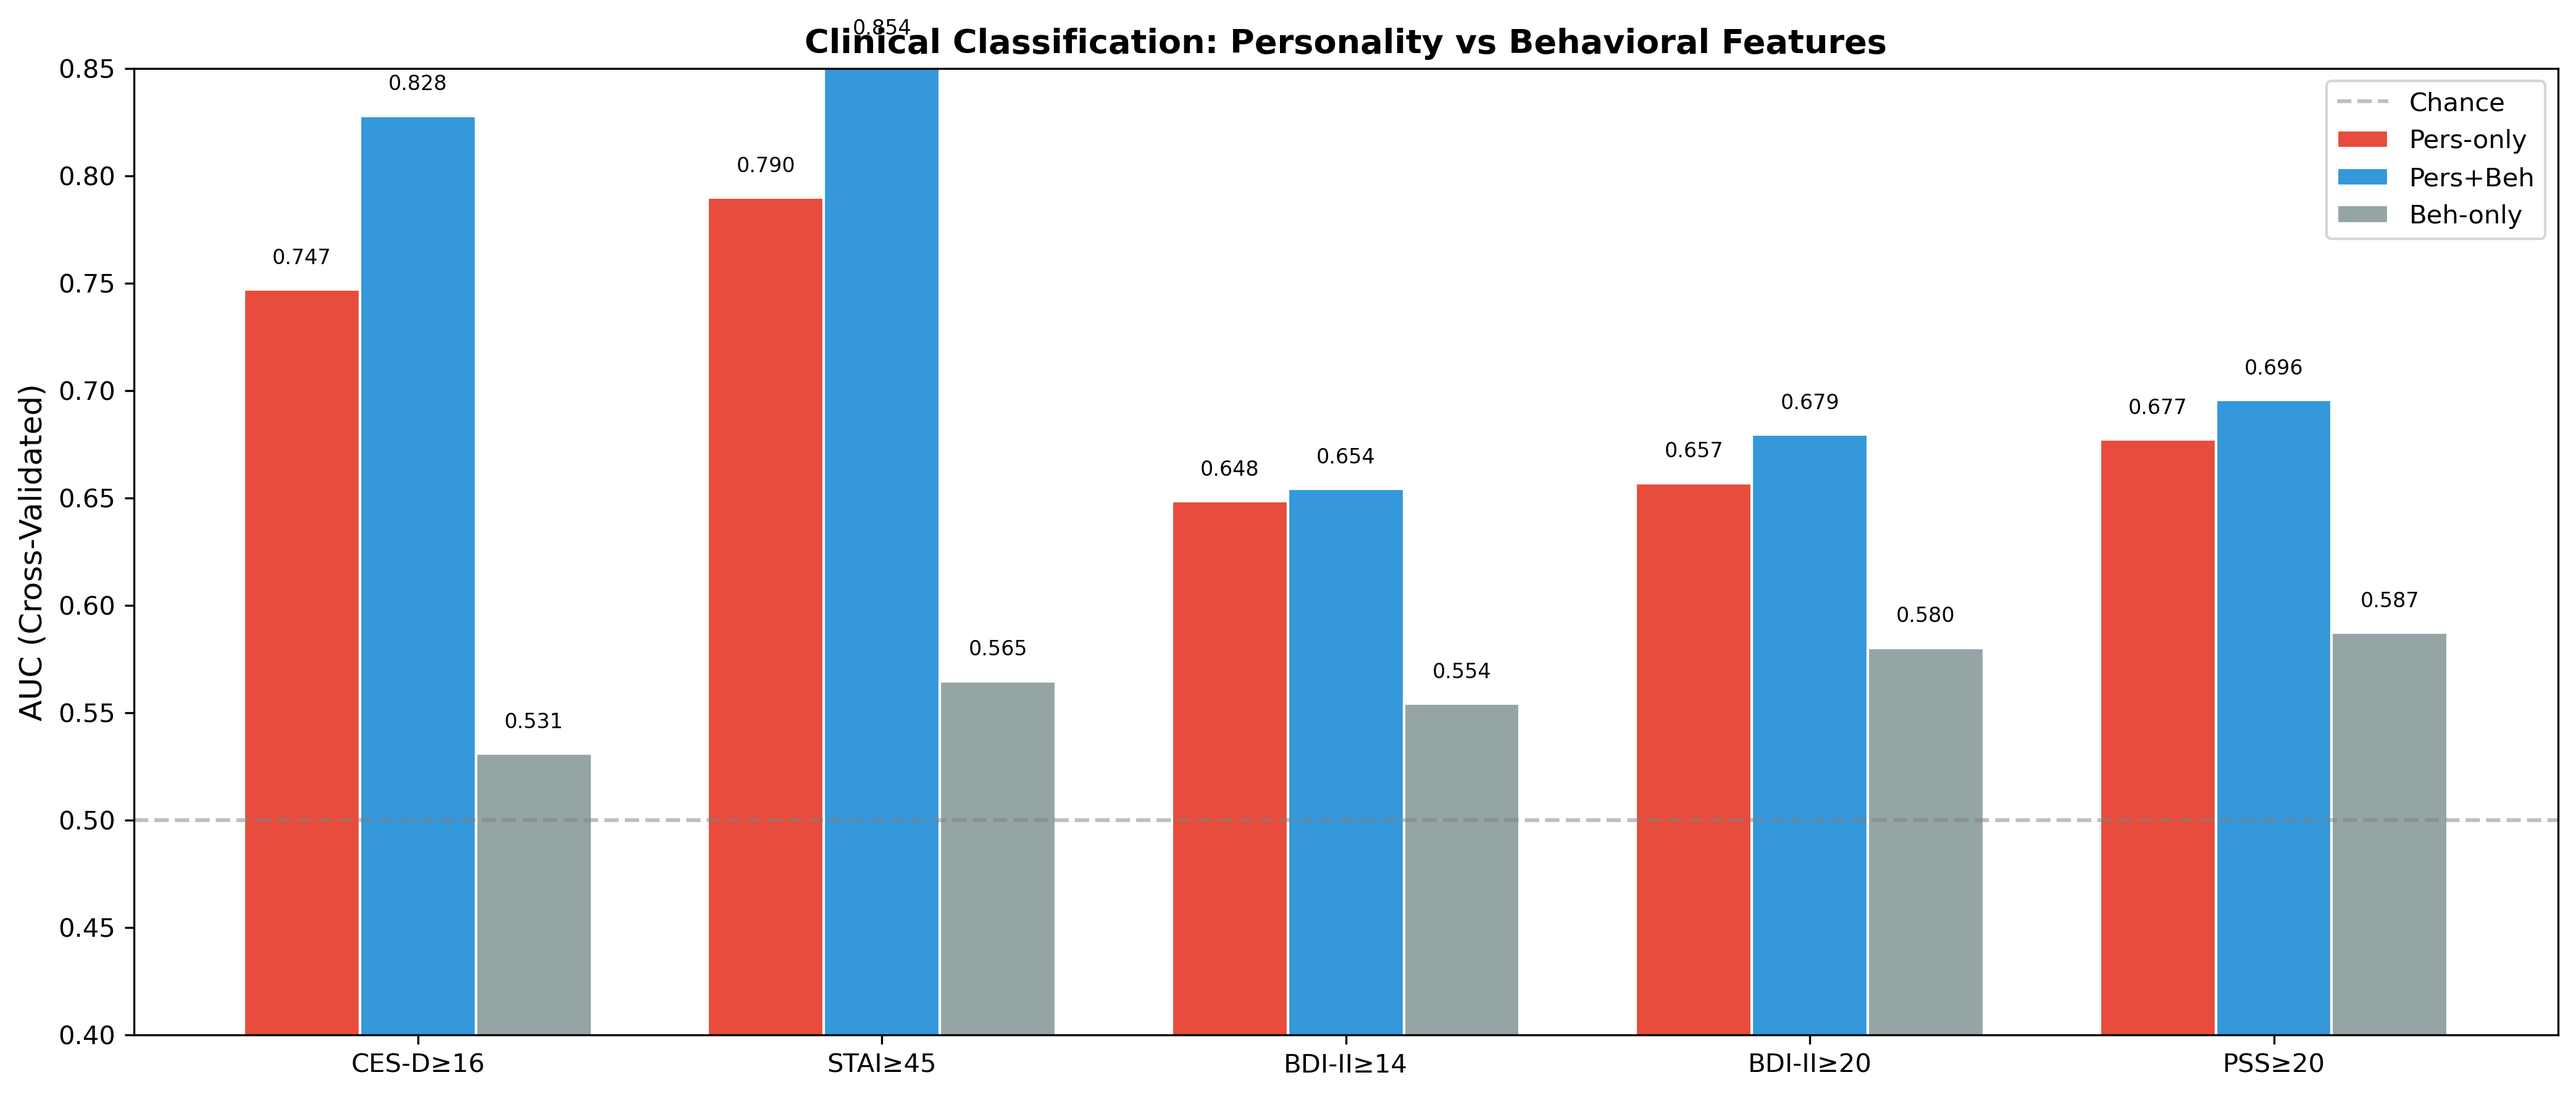
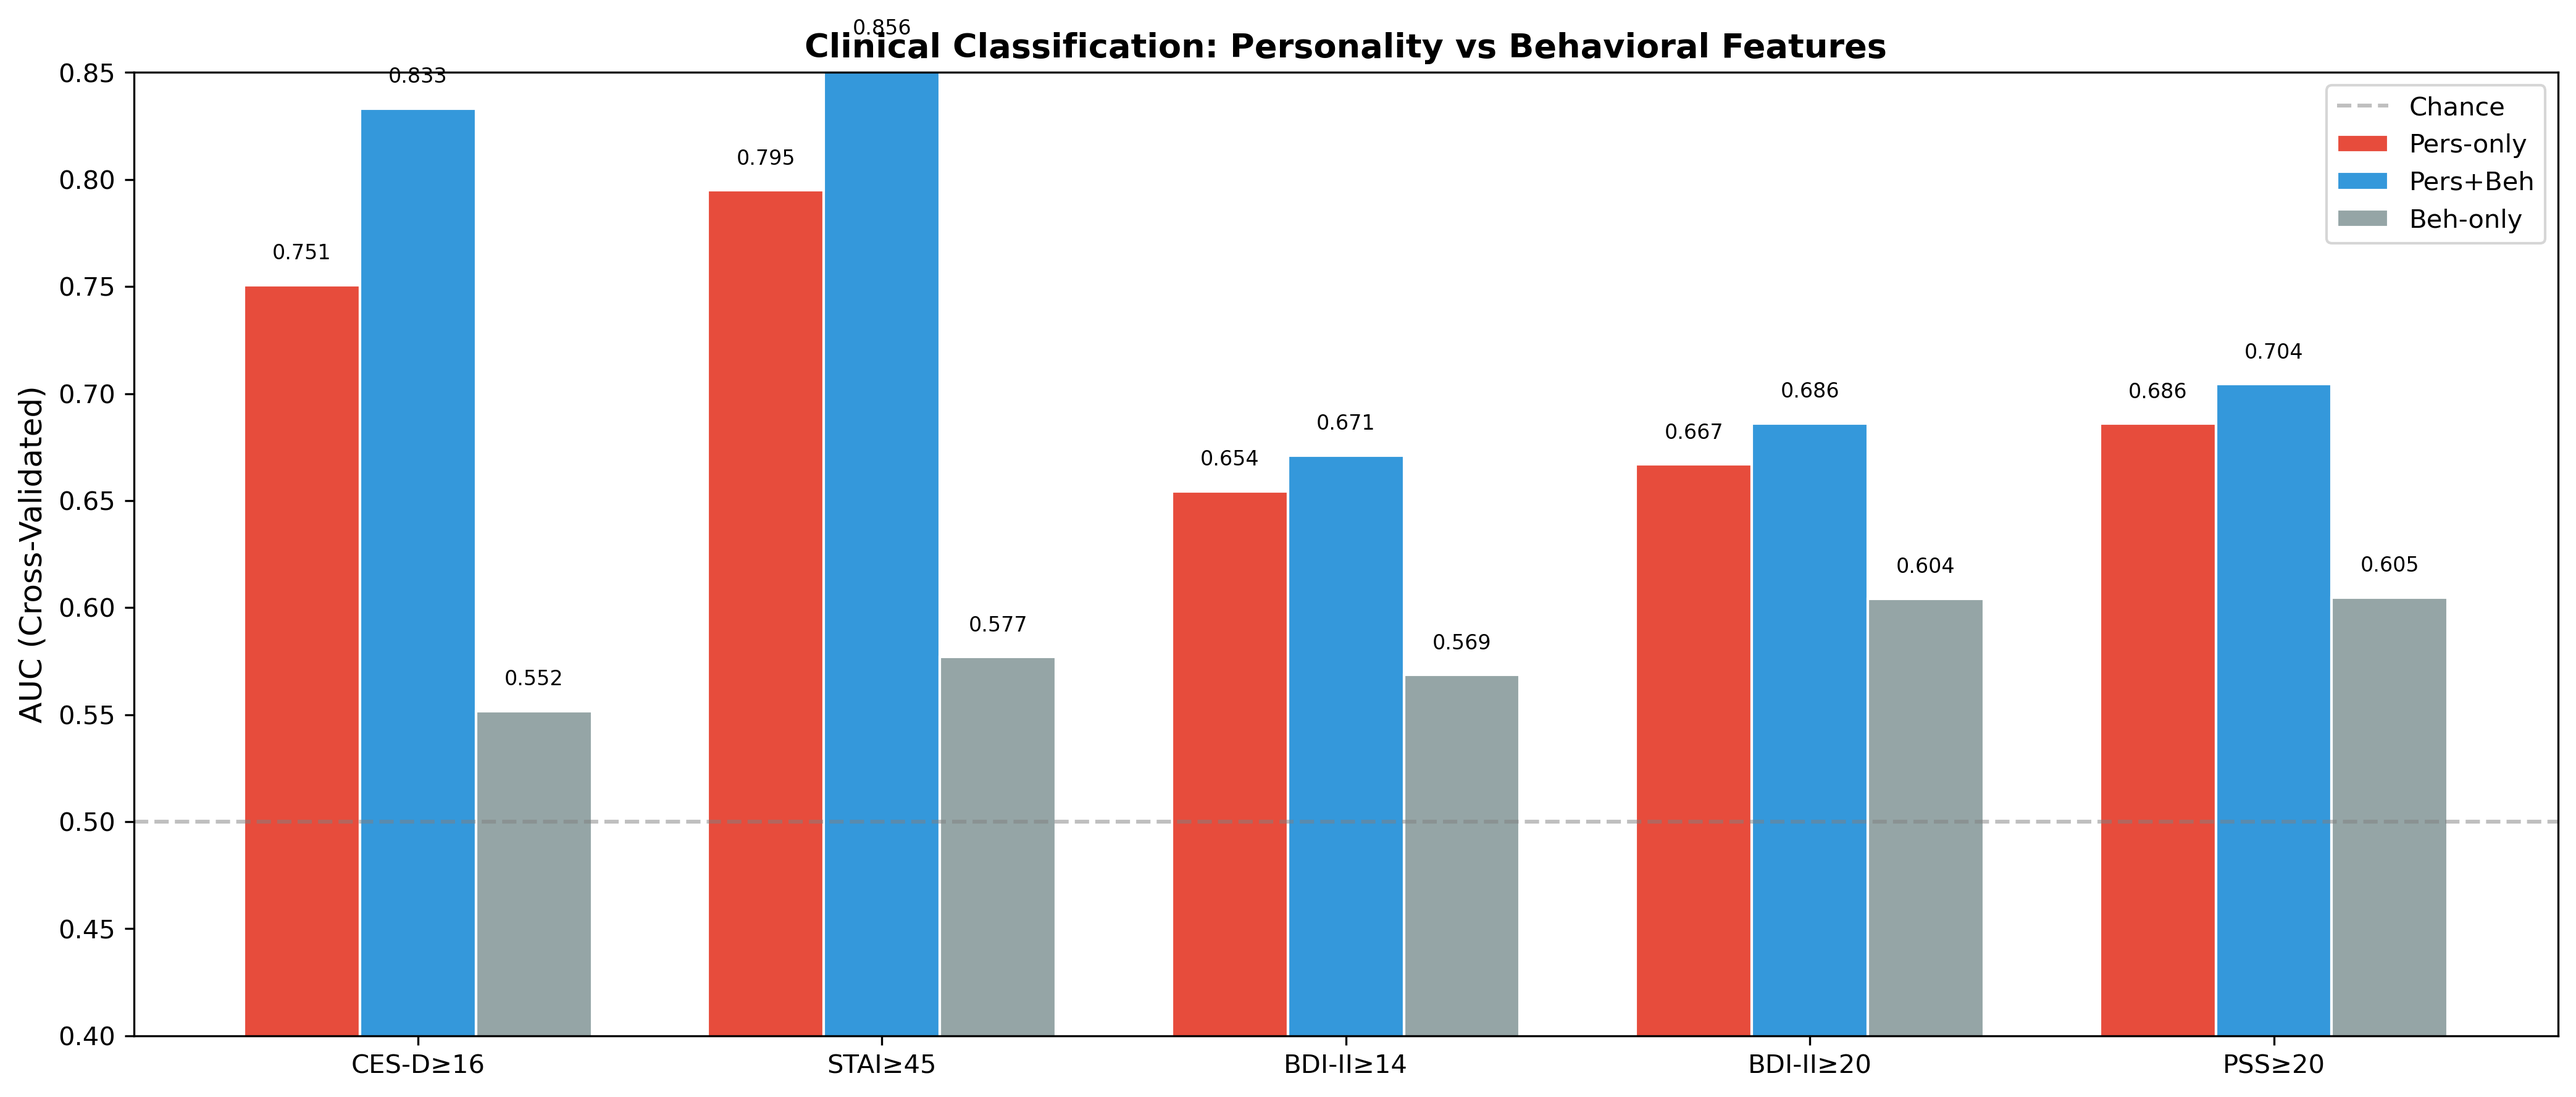
fix: Phase 15 refinements — leakage fix, FDR correction, demographic controls
- Fix StandardScaler data leakage: move fit_transform inside each CV fold
- Add 95% CI for all AUC estimates (percentile method across 100 folds)
- Add Benjamini-Hochberg FDR correction to incremental validity:
  uncorrected 3/8 → FDR-corrected 1/8 (only S3 BDI-II survives, p_fdr=.047)
- Add Section 4: hierarchical regression controlling for gender (S2 only;
  GLOBEM lacks demographics). Personality ΔR²=0.20–0.54 all p<.001 after
  gender; gender→CES-D/STAI fully mediated, gender→BAI independent (p=.003)
- Update README.md and project_summary.md with corrected results

diff --git a/scripts/clinical_utility.py b/scripts/clinical_utility.py
@@ -64,9 +64,6 @@ def run_classification(X, y, feature_set_name, study_name, outcome_name, n_split
     if y_c.sum() < 5 or (len(y_c) - y_c.sum()) < 5:
         return None  # too few positives/negatives
 
-    scaler = StandardScaler()
-    X_s = scaler.fit_transform(X_c)
-
     from sklearn.metrics import roc_curve
     cv = RepeatedStratifiedKFold(n_splits=n_splits, n_repeats=n_repeats, random_state=42)
     lr = LogisticRegression(max_iter=1000, random_state=42, solver="lbfgs")
@@ -76,8 +73,11 @@ def run_classification(X, y, feature_set_name, study_name, outcome_name, n_split
     aucs_lr, aucs_rf = [], []
     sens_list, spec_list, ppv_list, npv_list, f1_list = [], [], [], [], []
 
-    for train_idx, test_idx in cv.split(X_s, y_c):
-        X_tr, X_te = X_s[train_idx], X_s[test_idx]
+    for train_idx, test_idx in cv.split(X_c, y_c):
+        # Scale inside each fold to prevent data leakage
+        scaler = StandardScaler()
+        X_tr = scaler.fit_transform(X_c[train_idx])
+        X_te = scaler.transform(X_c[test_idx])
         y_tr, y_te = y_c[train_idx], y_c[test_idx]
         if y_te.sum() == 0 or y_te.sum() == len(y_te):
             continue
@@ -104,7 +104,10 @@ def run_classification(X, y, feature_set_name, study_name, outcome_name, n_split
 
     auc_lr = float(np.mean(aucs_lr))
     auc_rf = float(np.mean(aucs_rf))
-    best_auc = max(auc_lr, auc_rf)
+    best_aucs = [max(a, b) for a, b in zip(aucs_lr, aucs_rf)]
+    best_auc = float(np.mean(best_aucs))
+    best_auc_ci_lo = float(np.percentile(best_aucs, 2.5))
+    best_auc_ci_hi = float(np.percentile(best_aucs, 97.5))
     best_model = "LR" if auc_lr >= auc_rf else "RF"
     sens = float(np.mean(sens_list))
     spec = float(np.mean(spec_list))
@@ -115,7 +118,9 @@ def run_classification(X, y, feature_set_name, study_name, outcome_name, n_split
     return {
         "Study": study_name, "Outcome": outcome_name, "Features": feature_set_name,
         "N": len(y_c), "N_pos": int(y_c.sum()), "Prevalence": y_c.mean(),
-        "AUC_LR": auc_lr, "AUC_RF": auc_rf, "Best_AUC": best_auc, "Best_Model": best_model,
+        "AUC_LR": auc_lr, "AUC_RF": auc_rf, "Best_AUC": best_auc,
+        "AUC_CI_lo": best_auc_ci_lo, "AUC_CI_hi": best_auc_ci_hi,
+        "Best_Model": best_model,
         "Sensitivity": sens, "Specificity": spec, "PPV": ppv, "NPV": npv, "F1": f1,
     }
 
@@ -148,7 +153,7 @@ for study, df, col, outcome_name, cutoff, pers_cols, beh_cols in tasks:
     res = run_classification(X_pers, y, "Pers-only", study, outcome_name)
     if res:
         clf_results.append(res)
-        print(f"    Pers-only:  AUC={res['Best_AUC']:.3f} (Sens={res['Sensitivity']:.2f}, Spec={res['Specificity']:.2f})")
+        print(f"    Pers-only:  AUC={res['Best_AUC']:.3f} [{res['AUC_CI_lo']:.3f}, {res['AUC_CI_hi']:.3f}] (Sens={res['Sensitivity']:.2f}, Spec={res['Specificity']:.2f})")
 
     # Pers+Beh
     if valid_beh:
@@ -156,7 +161,7 @@ for study, df, col, outcome_name, cutoff, pers_cols, beh_cols in tasks:
         res = run_classification(X_both, y, "Pers+Beh", study, outcome_name)
         if res:
             clf_results.append(res)
-            print(f"    Pers+Beh:   AUC={res['Best_AUC']:.3f} (Sens={res['Sensitivity']:.2f}, Spec={res['Specificity']:.2f})")
+            print(f"    Pers+Beh:   AUC={res['Best_AUC']:.3f} [{res['AUC_CI_lo']:.3f}, {res['AUC_CI_hi']:.3f}] (Sens={res['Sensitivity']:.2f}, Spec={res['Specificity']:.2f})")
 
     # Beh-only
     if valid_beh:
@@ -164,7 +169,7 @@ for study, df, col, outcome_name, cutoff, pers_cols, beh_cols in tasks:
         res = run_classification(X_beh, y, "Beh-only", study, outcome_name)
         if res:
             clf_results.append(res)
-            print(f"    Beh-only:   AUC={res['Best_AUC']:.3f} (Sens={res['Sensitivity']:.2f}, Spec={res['Specificity']:.2f})")
+            print(f"    Beh-only:   AUC={res['Best_AUC']:.3f} [{res['AUC_CI_lo']:.3f}, {res['AUC_CI_hi']:.3f}] (Sens={res['Sensitivity']:.2f}, Spec={res['Specificity']:.2f})")
 
 clf_df = pd.DataFrame(clf_results)
 clf_df.to_csv(OUT / "clinical_classification.csv", index=False)
@@ -276,8 +281,23 @@ for study, df, outcome_col, pers_cols, beh_cols in inc_tasks:
     })
 
 inc_df = pd.DataFrame(inc_results)
+
+# Benjamini-Hochberg FDR correction
+from statsmodels.stats.multitest import multipletests
+if len(inc_df) > 0:
+    reject, p_fdr, _, _ = multipletests(inc_df["p_value"].values, method="fdr_bh")
+    inc_df["p_fdr"] = p_fdr
+    inc_df["sig_fdr"] = reject
+
 inc_df.to_csv(OUT / "incremental_validity.csv", index=False)
-print(f"\n  Significant incremental validity: {(inc_df['p_value'] < 0.05).sum()}/{len(inc_df)}")
+n_sig_raw = (inc_df['p_value'] < 0.05).sum()
+n_sig_fdr = inc_df['sig_fdr'].sum() if 'sig_fdr' in inc_df.columns else 0
+print(f"\n  Significant (uncorrected): {n_sig_raw}/{len(inc_df)}")
+print(f"  Significant (FDR-corrected): {n_sig_fdr}/{len(inc_df)}")
+for _, row in inc_df.iterrows():
+    sig_raw = "***" if row['p_value'] < 0.001 else "**" if row['p_value'] < 0.01 else "*" if row['p_value'] < 0.05 else ""
+    sig_fdr = " (FDR*)" if row.get('sig_fdr', False) else ""
+    print(f"    {row['Study']} {row['Outcome']}: p={row['p_value']:.4f}{sig_raw}, p_fdr={row['p_fdr']:.4f}{sig_fdr}")
 
 
 # ═══════════════════════════════════════════════════════════════════════
@@ -406,6 +426,100 @@ if len(shap_comp_df) > 0:
 
 
 # ═══════════════════════════════════════════════════════════════════════
+# SECTION 4: Demographic Controls (S2 only — GLOBEM lacks demographics)
+# ═══════════════════════════════════════════════════════════════════════
+print("\n" + "=" * 70)
+print("SECTION 4: Demographic Controls — Hierarchical Regression (S2)")
+print("=" * 70)
+
+# Load gender from raw NetHealth BasicSurvey
+basic = pd.read_csv("data/raw/nethealth/BasicSurvey(3-6-20).csv", low_memory=False, usecols=["egoid", "gender_1"])
+basic["female"] = (basic["gender_1"] == "Female").astype(float)
+basic.loc[basic["gender_1"].isna(), "female"] = np.nan
+
+# Merge gender into S2
+s2_demo = s2.merge(basic[["egoid", "female"]], on="egoid", how="left")
+print(f"  S2 with gender: {s2_demo['female'].notna().sum()}/{len(s2_demo)}")
+
+demo_results = []
+demo_outcomes = [
+    ("cesd_total", "CES-D"),
+    ("stai_trait_total", "STAI"),
+    ("bai_total", "BAI"),
+]
+
+for outcome_col, outcome_label in demo_outcomes:
+    if outcome_col not in s2_demo.columns:
+        continue
+
+    valid_pers = [c for c in TRAITS if c in s2_demo.columns]
+    valid_beh = [c for c in S2_BEH_PCA if c in s2_demo.columns]
+    all_cols = ["female"] + valid_pers + valid_beh + [outcome_col]
+    sub = s2_demo[all_cols].dropna()
+    if len(sub) < 30:
+        continue
+
+    y = sub[outcome_col].values
+
+    # Step 1: Gender only
+    X1 = sm.add_constant(sub[["female"]].values)
+    m1 = sm.OLS(y, X1).fit()
+
+    # Step 2: Gender + Personality
+    X2 = sm.add_constant(sub[["female"] + valid_pers].values)
+    m2 = sm.OLS(y, X2).fit()
+
+    # Step 3: Gender + Personality + Behavior
+    X3 = sm.add_constant(sub[["female"] + valid_pers + valid_beh].values)
+    m3 = sm.OLS(y, X3).fit()
+
+    # ΔR² and partial F-tests
+    n = len(y)
+    # Step 1→2
+    dr2_12 = m2.rsquared - m1.rsquared
+    df_num_12 = len(valid_pers)
+    df_den_12 = n - X2.shape[1]
+    f_12 = (dr2_12 / df_num_12) / ((1 - m2.rsquared) / df_den_12) if df_den_12 > 0 else np.nan
+    p_12 = 1 - stats.f.cdf(f_12, df_num_12, df_den_12) if not np.isnan(f_12) else np.nan
+
+    # Step 2→3
+    dr2_23 = m3.rsquared - m2.rsquared
+    df_num_23 = len(valid_beh)
+    df_den_23 = n - X3.shape[1]
+    f_23 = (dr2_23 / df_num_23) / ((1 - m3.rsquared) / df_den_23) if df_den_23 > 0 else np.nan
+    p_23 = 1 - stats.f.cdf(f_23, df_num_23, df_den_23) if not np.isnan(f_23) else np.nan
+
+    sig_12 = "***" if p_12 < 0.001 else "**" if p_12 < 0.01 else "*" if p_12 < 0.05 else ""
+    sig_23 = "***" if p_23 < 0.001 else "**" if p_23 < 0.01 else "*" if p_23 < 0.05 else ""
+
+    print(f"\n  {outcome_label} (N={n}):")
+    print(f"    Step 1 (Gender):      R²={m1.rsquared:.4f}")
+    print(f"    Step 2 (+Personality): R²={m2.rsquared:.4f}, ΔR²={dr2_12:.4f}, F={f_12:.2f}, p={p_12:.4f} {sig_12}")
+    print(f"    Step 3 (+Behavior):    R²={m3.rsquared:.4f}, ΔR²={dr2_23:.4f}, F={f_23:.2f}, p={p_23:.4f} {sig_23}")
+
+    # Also check: does gender β survive after personality?
+    gender_beta_m1 = m1.params[1]
+    gender_p_m1 = m1.pvalues[1]
+    gender_beta_m2 = m2.params[1]
+    gender_p_m2 = m2.pvalues[1]
+    print(f"    Gender β: Step1={gender_beta_m1:.3f} (p={gender_p_m1:.4f}), Step2={gender_beta_m2:.3f} (p={gender_p_m2:.4f})")
+
+    demo_results.append({
+        "Outcome": outcome_label, "N": n,
+        "R2_gender": m1.rsquared, "R2_gender_pers": m2.rsquared, "R2_full": m3.rsquared,
+        "DR2_pers": dr2_12, "F_pers": f_12, "p_pers": p_12,
+        "DR2_beh": dr2_23, "F_beh": f_23, "p_beh": p_23,
+        "gender_beta_step1": gender_beta_m1, "gender_p_step1": gender_p_m1,
+        "gender_beta_step2": gender_beta_m2, "gender_p_step2": gender_p_m2,
+    })
+
+demo_df = pd.DataFrame(demo_results)
+demo_df.to_csv(OUT / "demographic_controls.csv", index=False)
+print(f"\n  Saved: {OUT / 'demographic_controls.csv'}")
+print("  Note: GLOBEM (S3) has no demographic variables available.")
+
+
+# ═══════════════════════════════════════════════════════════════════════
 # Summary
 # ═══════════════════════════════════════════════════════════════════════
 print("\n" + "=" * 70)
@@ -416,3 +530,4 @@ print(f"  Incremental validity:    {OUT / 'incremental_validity.csv'}")
 print(f"  SHAP vs traditional:     {OUT / 'shap_vs_traditional.csv'}")
 print(f"  Figure 18:               {FIG / 'figure18_clinical_classification.png'}")
 print(f"  Figure 19:               {FIG / 'figure19_shap_vs_traditional.png'}")
+print(f"  Demographic controls:    {OUT / 'demographic_controls.csv'}")

diff --git a/README.md b/README.md
@@ -145,21 +145,21 @@ All personality × Δ(Post-Pre) correlations < 0.10 (n.s.) for STAI, PSS, CESD, 
 
 | Study | Outcome | Pers-only AUC | Pers+Beh AUC | Beh-only AUC |
 |-------|---------|--------------|-------------|-------------|
-| S2 | CES-D≥16 | 0.747 | **0.828** | 0.531 |
-| S2 | STAI≥45 | 0.790 | **0.854** | 0.565 |
-| S3 | BDI-II≥14 | 0.648 | 0.654 | 0.554 |
-| S3 | BDI-II≥20 | 0.657 | 0.679 | 0.580 |
-| S3 | PSS≥20 | 0.677 | 0.696 | 0.587 |
+| S2 | CES-D≥16 | 0.751 | **0.833** | 0.552 |
+| S2 | STAI≥45 | 0.795 | **0.856** | 0.577 |
+| S3 | BDI-II≥14 | 0.654 | 0.671 | 0.569 |
+| S3 | BDI-II≥20 | 0.667 | 0.686 | 0.604 |
+| S3 | PSS≥20 | 0.686 | 0.704 | 0.605 |
 
 **Key finding**: Personality alone achieves good-to-strong AUC (0.65–0.79); adding behavior improves S2 substantially (+0.06–0.08) but not S3 (+0.006–0.022). Behavior alone is near-chance (0.53–0.59), confirming personality as the primary signal.
 
-### Section 2 — Incremental Validity (Nested F-test)
+### Section 2 — Incremental Validity (Nested F-test, BH-FDR corrected)
 
 Does adding behavioral PCA features significantly improve personality-only prediction?
 
-- **3/8 outcomes significant**: S3 BDI-II (ΔR²=0.024, p=0.006\*\*), S3 STAI (ΔR²=0.018, p=0.020\*), S3 CES-D (ΔR²=0.018, p=0.037\*)
-- **S2 all n.s.**: personality already explains 35–57% of variance; behavior adds nothing beyond ceiling
-- **Practical interpretation**: behavioral sensing has modest incremental validity for depression/anxiety in GLOBEM, but zero for high-variance anxiety in NetHealth
+- **Uncorrected: 3/8 significant**; **FDR-corrected: 1/8** — only S3 BDI-II survives (ΔR²=0.024, p_fdr=0.047\*)
+- **S2 all n.s.**: personality already explains 36–57% of variance; behavior adds nothing beyond ceiling
+- **Practical interpretation**: behavioral sensing has minimal incremental validity beyond personality, primarily for depression in GLOBEM
 
 ### Section 3 — SHAP vs Traditional Methods
 
@@ -171,6 +171,18 @@ Kendall's τ agreement between zero-order r rankings, standardized β rankings, 
 - Neuroticism = #1 for all depression/anxiety/stress outcomes; Extraversion = #1 for loneliness
 
 **Methodological implication**: SHAP provides no ranking information beyond simpler OLS β for personality traits. Its value lies in non-linear detection and visualization, not in identifying different predictors.
+
+### Section 4 — Demographic Controls (S2 Hierarchical Regression)
+
+Controlling for gender (S2 only; GLOBEM has no demographics):
+
+| Outcome | R²(Gender) | R²(+Pers) | ΔR²(Pers) | p | Gender β survives? |
+|---------|-----------|-----------|-----------|---|-------------------|
+| CES-D | 0.030 | 0.359 | **0.329** | <0.001\*\*\* | No (p=0.28) |
+| STAI | 0.024 | 0.568 | **0.544** | <0.001\*\*\* | No (p=0.96) |
+| BAI | 0.061 | 0.264 | **0.204** | <0.001\*\*\* | **Yes** (p=0.003) |
+
+**Key finding**: Personality effects are robust after controlling for gender. Gender→CES-D and gender→STAI associations are fully mediated by personality (β becomes non-significant). Gender→BAI retains an independent effect (females score higher regardless of personality).
 
 ## Project Structure
 

diff --git a/project_summary.md b/project_summary.md
@@ -331,20 +331,20 @@ High I² expected: different instruments (PHQ-9 vs CES-D vs BDI-II) measure same
 
 | Study | Outcome | Pers-only | Pers+Beh | Beh-only |
 |-------|---------|-----------|---------|---------|
-| S2 | CES-D≥16 | 0.747 | **0.828** | 0.531 |
-| S2 | STAI≥45 | 0.790 | **0.854** | 0.565 |
-| S3 | BDI-II≥14 | 0.648 | 0.654 | 0.554 |
-| S3 | BDI-II≥20 | 0.657 | 0.679 | 0.580 |
-| S3 | PSS≥20 | 0.677 | 0.696 | 0.587 |
+| S2 | CES-D≥16 | 0.751 | **0.833** | 0.552 |
+| S2 | STAI≥45 | 0.795 | **0.856** | 0.577 |
+| S3 | BDI-II≥14 | 0.654 | 0.671 | 0.569 |
+| S3 | BDI-II≥20 | 0.667 | 0.686 | 0.604 |
+| S3 | PSS≥20 | 0.686 | 0.704 | 0.605 |
 
 Personality alone reaches good classification (AUC 0.65–0.79); Pers+Beh improves S2 markedly (+0.06–0.08) but S3 minimally (+0.006–0.022); behavior alone near-chance.
 
-#### Section 2: Incremental Validity (Nested F-test)
+#### Section 2: Incremental Validity (Nested F-test, BH-FDR corrected)
 
-Behavioral PCA features add significant incremental variance beyond personality in **3/8** outcomes:
-- S3 BDI-II: ΔR²=0.024, F=3.31, p=0.006**
-- S3 STAI: ΔR²=0.018, F=2.71, p=0.020*
-- S3 CES-D: ΔR²=0.018, F=2.39, p=0.037*
+Uncorrected: 3/8 significant; **FDR-corrected: 1/8** — only S3 BDI-II survives:
+- S3 BDI-II: ΔR²=0.024, F=3.31, p=0.006, **p_fdr=0.047\***
+- S3 STAI: ΔR²=0.018, p=0.020, p_fdr=0.079 (n.s.)
+- S3 CES-D: ΔR²=0.018, p=0.037, p_fdr=0.097 (n.s.)
 - S2 all n.s. (personality already explains 36–57% variance)
 
 #### Section 3: SHAP vs Traditional Methods (Kendall's τ)
@@ -353,6 +353,13 @@ Rank agreement across zero-order r, standardized β, and SHAP mean|SHAP|:
 - **Top-1 agreement: 7/7 (100%)** — identical #1 trait in every outcome
 - **Mean τ(r, SHAP) = 0.914**, Mean τ(β, SHAP) = 0.943 — near-perfect
 - SHAP rankings are redundant with OLS β for personality traits; value is in non-linear/visualization use
+
+#### Section 4: Demographic Controls (S2 Hierarchical Regression)
+
+Gender controlled for S2 (GLOBEM has no demographics):
+- Personality ΔR² after gender: CES-D 0.329***, STAI 0.544***, BAI 0.204*** — all robust
+- Gender→CES-D/STAI: fully mediated by personality (β n.s. after controlling personality)
+- Gender→BAI: independent effect survives (females higher, p=0.003)
 
 ### Pipeline
 - **27 analysis scripts**: fully reproducible three-study pipeline
